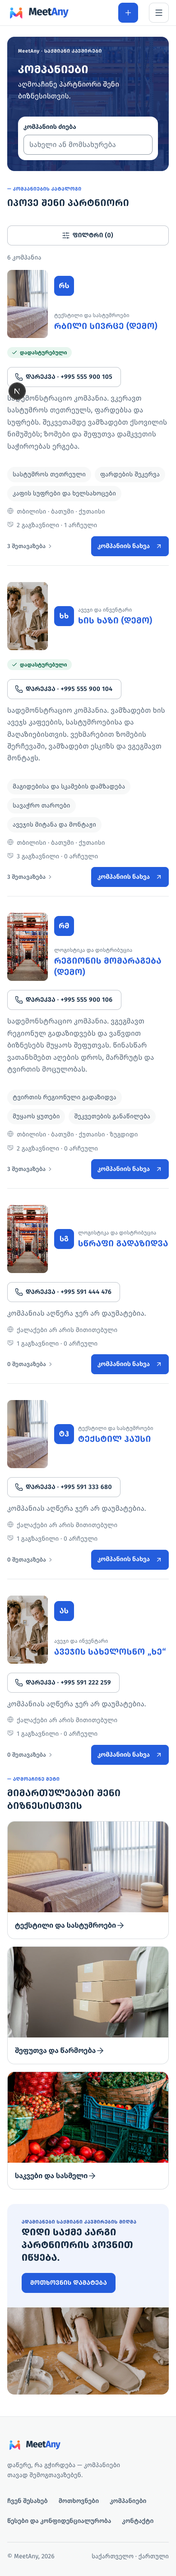
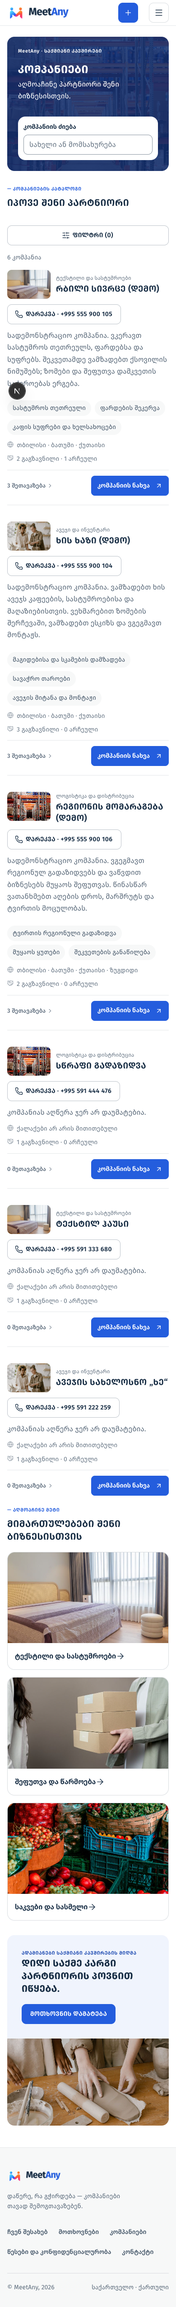
Refine category navigation, company cards and request detail hierarchy

diff --git a/web/app/components/market/RequestViewPageContent.tsx b/web/app/components/market/RequestViewPageContent.tsx
@@ -216,43 +216,7 @@ export function RequestViewPageContent() {
     }
   }
 
-  return (
-    <div className="ma-page">
-      <Link className="ma-back" href="/requests/">
-        <Icon name="arrow-left" />
-        მოთხოვნები
-      </Link>
-      <PageBand eyebrow="MeetAny · საქმიანი კავშირები" title={isOwner ? "მიღებული შეთავაზებები" : r.title} description={isOwner ? r.title : categories[r.category]} />
-      <div className="ma-cluster">
-        {isOwner ? <span className="ma-badge ma-badge--info">შენი მოთხოვნა</span> : null}
-        <span className="ma-small ma-muted">
-          {cities[r.city]} · {offerCount} შეთავაზება
-          {closed ? ` · ${state === "closed" ? "დახურული" : state === "chosen" ? "მომწოდებელი არჩეულია" : "ვადაგასული"}` : ""}
-        </span>
-      </div>
-      <section className="ma-panel ma-stack" aria-label="მოთხოვნის აღწერა">
-        <p className="ma-prose">{r.body}</p>
-        <dl className="ma-kv">
-          {r.quantity != null ? <div><dt>რაოდენობა</dt><dd>{r.quantity} {units[r.unit] || r.unit}</dd></div> : null}
-          {r.neededBy ? <div><dt>საჭიროა თარიღამდე</dt><dd>{r.neededBy}</dd></div> : null}
-          <div><dt>ვადა</dt><dd>{state === "open" ? `დარჩენილია ${store?.daysLeft(r)} დღე` : store?.stateLabels[state]}</dd></div>
-        </dl>
-        {r.photo ? <figure className="ma-photo"><a href={r.photo} target="_blank" rel="noopener noreferrer"><img src={r.photo} alt="მოთხოვნის ფოტო"/></a></figure> : null}
-      </section>
-      <div className="ma-share">
-        <button className="ma-btn ma-btn--secondary" onClick={async () => {try {await navigator.clipboard.writeText(shareUrl); toast("ბმული დაკოპირდა.");} catch {setActionError("ბმული ვერ დაკოპირდა.");}}}>ბმულის კოპირება</button>
-        <a className="ma-btn ma-btn--secondary" href={`https://wa.me/?text=${encodeURIComponent(r.title + "\n" + shareUrl)}`} target="_blank" rel="noopener noreferrer">WhatsApp</a>
-        <a className="ma-btn ma-btn--secondary" href={`https://www.facebook.com/sharer/sharer.php?u=${encodeURIComponent(shareUrl)}`} target="_blank" rel="noopener noreferrer">Facebook</a>
-      </div>
-      {actionError ? <p role="alert" className="ma-field__error">{actionError}</p> : null}
-      {owner ? (
-        <div className="ma-cluster">
-          <span className="ma-small ma-muted">გამომგზავნი: {owner.company || owner.name}</span>
-          {ownerPhone ? <CallButton phone={ownerPhone} variant="secondary" /> : null}
-        </div>
-      ) : null}
-
-      {isOwner || me?.role === "admin" ? (
+  const responsePanel = (isOwner || me?.role === "admin" ? (
         <>
           <p className="ma-note">
             <Icon name="lock" />
@@ -318,8 +282,8 @@ export function RequestViewPageContent() {
         </section>
       ) : (
         <section className="ma-panel">
-          <h2 className="ma-h3">შეთავაზების გასაგზავნად შედი როგორც კომპანია</h2>
-          <p className="ma-note">შეთავაზებებს მხოლოდ მოთხოვნის ავტორი ნახავს — სხვები მხოლოდ რაოდენობას.</p>
+          <h2 className="ma-h3">გაქვს შეთავაზება?</h2>
+          <p className="ma-note">შედი კომპანიის ანგარიშით და გაუგზავნე პირობები ავტორს. შეთავაზების ტექსტს მხოლოდ ის ნახავს.</p>
           <div className="ma-panel__actions">
             <Link className="ma-btn ma-btn--primary" href="/account/">
               შესვლა
@@ -329,7 +293,54 @@ export function RequestViewPageContent() {
             </Link>
           </div>
         </section>
-      )}
+      ));
+
+  return (
+    <div className="ma-page request-detail">
+      <Link className="ma-back" href="/requests/">
+        <Icon name="arrow-left" />
+        მოთხოვნები
+      </Link>
+      <PageBand eyebrow="MeetAny · საქმიანი კავშირები" title={isOwner ? "მიღებული შეთავაზებები" : r.title} description={isOwner ? r.title : categories[r.category]} />
+      <div className="request-detail-grid">
+        <div className="request-detail-main">
+          <div className="ma-cluster">
+            {isOwner ? <span className="ma-badge ma-badge--info">შენი მოთხოვნა</span> : null}
+            <span className="ma-small ma-muted">
+              {cities[r.city]} · {offerCount} შეთავაზება
+              {closed ? ` · ${state === "closed" ? "დახურული" : state === "chosen" ? "მომწოდებელი არჩეულია" : "ვადაგასული"}` : ""}
+            </span>
+          </div>
+          <section className="request-description" aria-label="მოთხოვნის აღწერა">
+            <h2 className="ma-h3">რა გვჭირდება</h2>
+            <p className="ma-prose">{r.body}</p>
+            <dl className="ma-kv request-detail-facts">
+              {r.quantity != null ? <div><dt>რაოდენობა</dt><dd>{r.quantity} {units[r.unit] || r.unit}</dd></div> : null}
+              {r.neededBy ? <div><dt>საჭიროა თარიღამდე</dt><dd>{r.neededBy}</dd></div> : null}
+              <div><dt>ვადა</dt><dd>{state === "open" ? `დარჩენილია ${store?.daysLeft(r)} დღე` : store?.stateLabels[state]}</dd></div>
+            </dl>
+            {r.photo ? <figure className="ma-photo"><a href={r.photo} target="_blank" rel="noopener noreferrer"><img src={r.photo} alt="მოთხოვნის ფოტო"/></a></figure> : null}
+          </section>
+          <div className="ma-share">
+            <button className="ma-btn ma-btn--secondary" onClick={async () => {try {await navigator.clipboard.writeText(shareUrl); toast("ბმული დაკოპირდა.");} catch {setActionError("ბმული ვერ დაკოპირდა.");}}}>ბმულის კოპირება</button>
+            <a className="ma-btn ma-btn--secondary" href={`https://wa.me/?text=${encodeURIComponent(r.title + "\n" + shareUrl)}`} target="_blank" rel="noopener noreferrer">WhatsApp</a>
+            <a className="ma-btn ma-btn--secondary" href={`https://www.facebook.com/sharer/sharer.php?u=${encodeURIComponent(shareUrl)}`} target="_blank" rel="noopener noreferrer">Facebook</a>
+          </div>
+          {actionError ? <p role="alert" className="ma-field__error">{actionError}</p> : null}
+          {!isOwner && me?.role === "company" ? responsePanel : null}
+        </div>
+        <aside className="request-detail-aside" aria-label="კონტაქტი და შეთავაზება">
+          {owner ? (
+            <section className="request-author">
+              <span className="ma-small ma-muted">მოთხოვნის ავტორი</span>
+              <h2 className="ma-h3">{owner.company || owner.name}</h2>
+              {ownerPhone ? <CallButton phone={ownerPhone} variant="secondary" /> : null}
+            </section>
+          ) : null}
+          {!isOwner && me?.role !== "admin" && me?.role !== "company" ? responsePanel : null}
+        </aside>
+      </div>
+      {isOwner || me?.role === "admin" ? <section className="request-responses">{responsePanel}</section> : null}
 
       {editRequest ? <RequestFormSheet key={r.id} open existing={r} onClose={() => setEditRequest(false)} /> : null}
       <ChooseOfferSheet

diff --git a/web/app/styles/marketplace.css b/web/app/styles/marketplace.css
@@ -92,9 +92,15 @@
 .ma-proto .ma-rcard--row,.ma-proto .r2-company-row{border:1px solid var(--border);border-radius:var(--radius-lg);box-shadow:var(--shadow-1);padding:var(--space-6)}
 .ma-proto .ma-rcard--row .ma-rcard__title{font-size:var(--fs-title);line-height:var(--lh-title)}
 .ma-proto .ma-proto-rowend{border-left:0}
-.ma-proto-filter{background:var(--bg-subtle);margin-bottom:var(--space-2);font-size:var(--fs-sm);line-height:var(--lh-sm);gap:var(--space-1);padding-inline:var(--space-1)}
-.ma-proto-filter>span:nth-last-child(2){flex:1;white-space:nowrap}
-.ma-proto-filter .r2-object{flex-basis:var(--space-5);width:var(--space-5);height:var(--space-5)}
+/* Category navigation keeps labels and counts in separate, stable columns. */
+.ma-proto-filter{margin-bottom:var(--space-1);font-size:var(--fs-sm);line-height:var(--lh-sm);gap:var(--space-2);padding-inline:var(--space-2)}
+.ma-proto-filter .facet-label{flex:1;white-space:nowrap}
+.ma-proto-filter .facet-count{min-width:var(--space-6);text-align:center;font-size:var(--fs-xs);color:var(--text-3);border-radius:var(--radius-pill);background:var(--bg-subtle)}
+.ma-proto-filter .r2-object{flex-basis:var(--space-5);width:var(--space-5);height:var(--space-5);background:transparent;color:var(--text-3)}
+.ma-proto-filter[aria-pressed=true]{box-shadow:inset var(--space-1) 0 0 var(--action)}
+.ma-proto-filter[aria-pressed=true] :is(.r2-object,.facet-count){color:var(--action)}
+.ma-proto-filter[aria-pressed=true]:hover{background:var(--selected-bg)}
+.r2-object{flex-basis:var(--space-5);width:var(--space-5);height:var(--space-5)}
 .ma-proto-filter[aria-pressed=true]{box-shadow:inset 0 0 0 1px var(--action)}
 .r2-object{position:relative;display:block;flex:0 0 var(--space-10);width:var(--space-10);height:var(--space-10);overflow:hidden}
 .r2-object img{position:absolute;width:400%;height:200%;max-width:none}
@@ -163,20 +169,53 @@
 
 @media(min-width:1024px){.ma-proto .ma-proto-sidebar{padding:var(--space-4)}.ma-proto-sidebar :is([data-clear],[data-company-clear]){padding-inline:var(--space-2)}}
 
-/* Companies catalog card (owner decision 2026-09-22): the v1 photo-listing layout
-   (.company-listing etc., from home.css — loaded on this page for exactly these classes)
-   plus P2 additions (verified badge, offer chips). Two overrides on top of home.css: the
-   action button reads the theme's main blue instead of home.css's dark listing-action fill,
-   and the offers link grows to a full 44px tap target. */
-.ma-proto .listing-media{min-height:150px}
+/* Catalog: image and identity share a header; details use the whole row. */
+.ma-proto .company-listing{grid-template-columns:calc(var(--space-20) * 2) minmax(0,1fr);gap:var(--space-3) var(--space-5)}
+.ma-proto .listing-media{align-self:start;min-height:0;aspect-ratio:3 / 2;grid-area:1 / 1}
+.ma-proto .listing-content{display:contents}
+.ma-proto .listing-summary{grid-area:1 / 2;display:grid;align-content:center;gap:var(--space-3);min-width:0}
+.ma-proto .listing-heading{flex-wrap:wrap;gap:var(--space-3)}
+.ma-proto .listing-heading h3 a{color:var(--text)}
+.ma-proto .listing-heading h3 a:hover{color:var(--action)}
+.ma-proto .listing-badges{display:flex;flex-wrap:wrap;align-items:center;gap:var(--space-2);margin:0}
+.ma-proto :is(.listing-description,.listing-chips,.listing-facts,.listing-footer){grid-column:1 / -1;margin:0}
+.ma-proto .listing-facts{display:flex;flex-wrap:wrap;gap:var(--space-2) var(--space-5)}
+.ma-proto .listing-footer{border-top:1px solid var(--border-subtle);padding-top:var(--space-3)}
 .ma-proto .company-listing .listing-action{background:var(--action)}
 .ma-proto .company-listing .listing-action:hover{background:var(--action-hover,var(--blue-600))}
 .ma-proto .listing-offers{min-height:var(--tap-min)}
-.ma-proto .listing-heading{flex-wrap:wrap}
-.ma-proto .listing-badges{display:flex;align-items:center;gap:var(--space-2);margin:var(--space-2) 0 0}
-.ma-proto .listing-chips{margin:var(--space-2) 0 0}
-/* Mobile catalog uses display:contents for its body, so added blocks span both columns. */
-.ma-proto .listing-badges{flex-wrap:wrap}
+@media(max-width:600px){
+ .ma-proto .company-listing{grid-template-columns:var(--space-24) minmax(0,1fr);gap:var(--space-3)}
+ .ma-proto .listing-summary{display:contents}
+ .ma-proto .listing-heading{grid-area:1 / 2}
+ .ma-proto .listing-heading .ma-avatar{display:none}
+ .ma-proto .listing-badges{grid-column:1 / -1}
+}
+
+/* Request detail: reading column and compact contact aside. */
+.request-detail{display:grid;gap:var(--space-6)}
+.request-detail>.ma-back{justify-self:start;margin:0}
+.ma-proto .request-detail>.r2-band{margin:0;padding:var(--space-6) var(--space-8);min-height:0}
+.request-detail-grid{display:grid;grid-template-columns:minmax(0,1fr);gap:var(--space-8);align-items:start}
+.request-detail-main{display:grid;gap:var(--space-5);min-width:0}
+.request-description{display:grid;gap:var(--space-5)}
+.request-description .ma-prose{max-width:65ch;margin:0}
+.request-detail .request-detail-facts{display:flex;flex-wrap:wrap;gap:var(--space-6);padding-block:var(--space-4);border-block:1px solid var(--border-subtle)}
+.request-detail .request-detail-facts>div{display:grid;gap:var(--space-2);padding:0;border:0;min-width:var(--space-24)}
+.request-detail .request-detail-facts dd{text-align:left}
+.request-detail .ma-photo{margin:0}
+.request-detail .ma-photo img{aspect-ratio:auto;max-height:calc(var(--space-24) * 4);object-fit:contain;object-position:left center}
+.request-detail-aside{display:grid;gap:var(--space-5);min-width:0;padding:var(--space-6);border:1px solid var(--border);border-radius:var(--radius-lg);background:var(--bg-subtle)}
+.request-author{display:grid;gap:var(--space-3);justify-items:start}
+.request-detail-aside>.ma-panel{padding:var(--space-5) 0 0;border:0;border-top:1px solid var(--border);border-radius:0;box-shadow:none;background:transparent}
+.request-detail-aside .ma-note{margin:0}
+.request-detail-aside .ma-h3{font-size:var(--fs-body);line-height:var(--lh-body)}
+.request-detail .ma-share{padding-top:var(--space-1)}
+.request-detail .ma-share .ma-btn{font-size:var(--fs-xs);padding-inline:var(--space-3)}
+.request-responses{display:grid;gap:var(--space-5);padding-top:var(--space-6);border-top:1px solid var(--border)}
+.request-responses>.ma-panel__actions{display:flex;flex-wrap:wrap}
+@media(min-width:1024px){.request-detail-grid{grid-template-columns:minmax(0,1fr) calc(var(--space-20) * 4 + var(--space-6))}}
 @media(max-width:767px){
- .ma-proto .listing-badges,.ma-proto .listing-chips{grid-column:1 / -1}
+ .ma-proto .request-detail>.r2-band{padding:var(--space-5)}
+ .request-detail-aside{padding:var(--space-5)}
 }

diff --git a/web/app/components/market/FacetList.tsx b/web/app/components/market/FacetList.tsx
@@ -1,5 +1,12 @@
 import { CategoryIcon } from "./CategoryIcon";
 
+const shortLabels: Record<string, string> = {
+  furniture: "ავეჯი და ინვენტარი", construction: "მშენებლობა", textiles: "ტექსტილი",
+  food: "საკვები და სასმელი", packaging: "შეფუთვა და წარმოება", logistics: "ლოგისტიკა",
+  cleaning: "დასუფთავება", technology: "IT და ტექნოლოგიები", marketing: "მარკეტინგი",
+  finance: "ბუღალტერია", legal: "იურიდიული", tourism: "ტურიზმი", other: "სხვა",
+};
+
 export type Facet = { id: string; label: string; count: number };
 
 // The requests/companies sidebar category list: non-zero facets first, zero-count ones behind
@@ -8,29 +15,33 @@ export function FacetList({
   all,
   loading = false,
   allLabel,
+  allCount,
   activeId,
   onSelect,
 }: {
   all: Facet[];
   loading?: boolean;
   allLabel: string;
+  allCount: number;
   activeId: string;
   onSelect: (id: string) => void;
 }) {
-  const entries: Facet[] = [{ id: "", label: allLabel, count: -1 }, ...all];
-  const shown = entries.filter((e) => loading || e.count !== 0 || e.id === activeId);
-  const hidden = entries.filter((e) => !loading && e.count === 0 && e.id !== activeId);
+  const entries: Facet[] = [{ id: "", label: allLabel, count: allCount }, ...all];
+  const shown = entries.filter((e) => loading || !e.id || e.count !== 0 || e.id === activeId);
+  const hidden = entries.filter((e) => !loading && !!e.id && e.count === 0 && e.id !== activeId);
   const button = (f: Facet) => (
     <button
       key={f.id}
       type="button"
       className="ma-proto-filter"
+      title={f.label}
+      aria-label={f.label}
       aria-pressed={activeId === f.id}
       onClick={() => onSelect(f.id)}
     >
-      {f.id ? <CategoryIcon id={f.id} /> : <span className="r2-object r2-object--icon" aria-hidden="true" />}
-      <span>{f.label}</span>
-      <span>{!loading && f.count >= 0 ? f.count : ""}</span>
+      <CategoryIcon id={f.id} />
+      <span className="facet-label">{shortLabels[f.id] || f.label}</span>
+      <span className="facet-count">{!loading && f.count >= 0 ? f.count : ""}</span>
     </button>
   );
   return (

diff --git a/web/app/components/market/CompanyListingCard.tsx b/web/app/components/market/CompanyListingCard.tsx
@@ -19,10 +19,7 @@ export type CompanyListingData = {
   stats: { sent: number; chosen: number };
 };
 
-// The v1 catalog card (site/archive/v1/app.js's card(), home.css's .company-listing) with the
-// P2 additions layered on top: a verified badge and up to 3 offer chips (owner decision
-// 2026-09-22). Companies have no photo of their own yet, so the card uses one representative
-// photo per industry (lib/categories.ts categoryPhoto) instead.
+// Compact industry-photo listing with service chips and a public phone link.
 export function CompanyListingCard({ c }: { c: CompanyListingData }) {
   const href = `/companies/view/?id=${encodeURIComponent(c.id)}`;
   const photo = categoryPhoto[c.industry] || categoryPhoto.other;
@@ -32,6 +29,7 @@ export function CompanyListingCard({ c }: { c: CompanyListingData }) {
         <img src={`/assets/photos/${photo}`} alt="" width={800} height={533} loading="lazy" decoding="async" />
       </Link>
       <div className="listing-content">
+        <div className="listing-summary">
         <div className="listing-heading">
           <CompanyAvatar name={c.name} />
           <div>
@@ -45,19 +43,12 @@ export function CompanyListingCard({ c }: { c: CompanyListingData }) {
             {cities[c.city] || c.city}
           </span>
         </div>
-        {c.verified ? (
-          <div className="listing-badges">
-            <span className="ma-badge ma-badge--success">
-              <Icon name="check" />
-              დადასტურებული
-            </span>
-          </div>
-        ) : null}
         {c.phone ? (
           <div className="listing-badges">
             <CallButton phone={c.phone} variant="secondary" />
           </div>
         ) : null}
+        </div>
         <p className="listing-description">{c.about || "კომპანიას აღწერა ჯერ არ დაუმატებია."}</p>
         {c.offers.length ? (
           <div className="listing-chips">

diff --git a/web/app/components/market/RequestsPageContent.tsx b/web/app/components/market/RequestsPageContent.tsx
@@ -153,7 +153,7 @@ export function RequestsPageContent({ autoOpenNew = false }: { autoOpenNew?: boo
     <div className="ma-proto-filters">
       <div>
         <h2 className="ma-title">კატეგორია</h2>
-        <FacetList all={categoryFacets} loading={!ready} allLabel={`ყველა კატეგორია${ready ? ` (${allCount})` : ""}`} activeId={category} onSelect={setCategory} />
+        <FacetList all={categoryFacets} loading={!ready} allLabel="ყველა კატეგორია" allCount={allCount} activeId={category} onSelect={setCategory} />
       </div>
       <div className="ma-field">
         <label className="ma-field__label" htmlFor="city-desktop">

diff --git a/web/app/components/market/CompaniesPageContent.tsx b/web/app/components/market/CompaniesPageContent.tsx
@@ -117,7 +117,7 @@ export function CompaniesPageContent() {
     <div className="ma-proto-filters">
       <div>
         <h2 className="ma-title">დარგი</h2>
-        <FacetList all={industryFacets} loading={!ready} allLabel={`ყველა დარგი${ready ? ` (${allCount})` : ""}`} activeId={industry} onSelect={setIndustry} />
+        <FacetList all={industryFacets} loading={!ready} allLabel="ყველა დარგი" allCount={allCount} activeId={industry} onSelect={setIndustry} />
       </div>
       <div className="ma-field">
         <label className="ma-field__label" htmlFor="company-city-desktop">

diff --git a/DESIGN-SYSTEM.md b/DESIGN-SYSTEM.md
@@ -11,10 +11,12 @@ Tailwind/shadcn არ გამოიყენება. ახალი ფე
 
 `SiteShell` ყველა marketplace გვერდს ათავსებს ერთ `ma-container`-ში, header/footer-ის კიდეებთან გასწორებით. desktop ფილტრის სიგანეა 280px; მობილურზე ფილტრი იხსნება native dialog-ში. აქტიური ფილტრები ინახება URL-ში და მუშაობს browser back/forward.
 
-მოთხოვნები: მუქი ფოტობენდი, ძიება, მარცხენა ფილტრები, შედეგების რიგში დალაგება და ფართო ბარათები. კატეგორიები Lucide-ის `/icons.svg` sprite-დან; ყველა არანულოვანი კატეგორია ჩანს ერთხაზიანი ლეიბლით. ჩატვირთვისას რაოდენობები არ იბეჭდება.
+მოთხოვნები: მუქი ფოტობენდი, ძიება, მარცხენა ფილტრები, შედეგების რიგში დალაგება და ფართო ბარათები. კატეგორიები Lucide-ის `/icons.svg` sprite-დან; ყველა არანულოვანი კატეგორია ჩანს მოკლე ერთხაზიანი ლეიბლით, ცალკე რაოდენობით და აქტიური რიგის მარცხენა აქცენტით. სრული სახელი ხელმისაწვდომია `aria-label`/`title`-ში. ჩატვირთვისას რაოდენობები არ იბეჭდება.
 
-კომპანიები: დარგის ფოტო `categoryPhoto`-დან, დადასტურების ბეიჯი, მომსახურების ჩიპები და ძირითადი ლურჯი ღილაკი. პროდუქტები უბრალო სიაა. ტელეფონის ბმული არის `tel:` და მინიმუმ 44px სამიზნე აქვს.
+კომპანიები: კომპაქტური ჰორიზონტალური ფოტო (3:2) `categoryPhoto`-დან, მომსახურების ჩიპები და ძირითადი ლურჯი ღილაკი. კატალოგის ბარათზე დადასტურების ბეიჯი არ ჩანს (მფლობელის განახლებული გადაწყვეტილება). ფოტო და კომპანიის ვინაობა ზედა რიგს იკავებს, აღწერა/მომსახურებები/მოქმედებები მთელ სიგანეს იყენებს. პროდუქტები უბრალო სიაა. ტელეფონის ბმული არის `tel:` და მინიმუმ 44px სამიზნე აქვს.
 
 მთავარი ინარჩუნებს არსებულ hero-ს და 3D კატეგორიებს. `HomeLive`-ის featured კომპანიები და რაოდენობები რეალური ბაზიდან იტვირთება. ძველ hero-სთან შედარება: 1440px-ზე ორივე 435.09px სიმაღლე; ფერი/ფოტოს გამჭვირვალობა იდენტურია.
 
 დამტკიცებული სპეციფიკაციები: `archive/design/P2-SPEC-GE.md`, `P2-OWNER-GE.md`. მიმდინარე შემოწმების სურათები: `web/qa/shots/` (1280/390).
+
+მოთხოვნის დეტალი: ტექსტი, რაოდენობა და ვადა მარცხნივ; ავტორი, ტელეფონი და შესვლა მარჯვნივ კომპაქტურ პანელში; შესული კომპანიის შეთავაზება ძირითად სვეტშია, ტექსტისთვის საკმარისი სიგანით. მობილურზე ერთი სვეტია. მფლობელის შეთავაზებები ცალკე ფართო სექციაში რჩება.

diff --git a/web/qa/README.md b/web/qa/README.md
@@ -12,3 +12,9 @@
 სურათები: `shots/`. `browser.mjs` და `accounts.mjs` იყენებს Playwright Chromium-ს; ჩვეულებრივი Chrome გაიხსნა infinity11 (`Profile 8 — INFINITY`) პროფილში. ძველი დაუთრექავი შემოწმების მასალები შენარჩუნებულია `archive/prototype-local` და `archive/qa-local`-ში.
 
 ტესტებმა შეცვალა მხოლოდ auth-probe branch-ის საკუთარი დროებითი QA მოთხოვნები; საბოლოოდ ისინი წაიშალა. Production deploy არ შესრულებულა. პაროლის აღდგენის/OTP ფორმები კოდში გადატანილია; რეალური კოდის წერილი არ გაგზავნილა. რეალური რეგისტრაცია და ადმინისტრატორის ბლოკირების/დადასტურების ცვლილებები UI-ით არ გამეორებულა; მათი სერვერული წესები DB ტესტებით მოწმდება.
+
+## ვიზუალური შესწორება მფლობელის სურათების შემდეგ
+
+კატეგორიების სია, კომპანიის ბარათი და მოთხოვნის დეტალი გადაიწყო. `shots/refined-*` აჩვენებს 1440/1024/390 ხედებს და შესული კლიენტის/კომპანიის მოთხოვნის ხედებს. შემოწმდა სურათები, ქართული ტექსტი და ჰორიზონტალური საზღვრები; სრულმა browser smoke-მა ხელახლა გაიარა 19 შემოწმება, 0 console error-ით. Build წარმატებულია, lint: 0 შეცდომა / 17 არსებული გაფრთხილება. ამ ვიზუალური ცვლილებისთვის DB workflow ტესტები არ გამეორებულა; შესული ანგარიშების დათვალიერება მხოლოდ წაკითხვას მოიცავდა.
+
+მოთხოვნისა და კომპანიის კატალოგების შემდგომი განსხვავების კვლევა: [DESIGN-DIRECTION.md](DESIGN-DIRECTION.md). იქ შეთავაზებული განსხვავებული შესავალი ბლოკები ჯერ არ განხორციელებულა.

diff --git a/web/qa/DESIGN-DIRECTION.md b/web/qa/DESIGN-DIRECTION.md
@@ -1,0 +1,25 @@
+# MeetAny: requests and company discovery
+
+Research reviewed 2026-09-22. This is a proposed direction, not a claim that users have tested or approved a new design.
+
+The two pages serve different decisions. Requests help a supplier decide whether to respond to a specific need; companies help a buyer choose a potential partner. Keep shared navigation, typography, controls and filter behavior, while differentiating hierarchy, content and page introductions.
+
+| Element | Requests | Companies |
+| --- | --- | --- |
+| Primary question | What can I supply or do? | Who can help me? |
+| Introduction | Compact, practical search header | Business directory introduction with service search |
+| Entry hierarchy | Need → quantity/location/deadline → responses | Company → capabilities/service area → contact |
+| Image | Author's actual reference photo, when present | Small supporting image; company identity stays primary |
+| Main action | View requirement, then send terms | View company or call |
+| Filters | Category and destination city | Industry and service area (service-area behavior requires a separate functional change) |
+
+Keep entries in predictable rows for comparison. A different color or a two-column grid by itself does not address the different tasks. Avoid dominant repeated category photos: current images describe an industry, not the individual company. Real company media could improve this later, without implying it already exists.
+
+Sources:
+- [NN/g: Consistency and Standards](https://www.nngroup.com/articles/consistency-and-standards/) — familiar controls and consistent meanings across a product.
+- [NN/g: Cards](https://www.nngroup.com/articles/cards-component/) — predictable lists support scanning and comparison; cards have tradeoffs.
+- [Baymard: Product Listing Information](https://baymard.com/research-articles/product-listing-information) — include the attributes needed to judge relevance without opening each entry. This is ecommerce research, applied here as a general principle, not direct evidence about MeetAny.
+- [Thomasnet: Supplier Discovery](https://sourcing.thomasnet.com/) — search, evaluate capabilities, contact a supplier.
+- [Upwork: Job Search](https://support.upwork.com/hc/en-us/articles/211063078-How-to-search-for-jobs-on-Upwork) — keyword search and filters for finding relevant work. A workflow reference, not a layout to copy.
+
+Implemented during this review: shorter category labels with full accessible names, separate counts, compact company photos, removal of catalog verification badges, full-width company descriptions, and a request detail reading column with a contact aside and company response in the reading column. Distinct catalog introductions remain a proposal for the next design iteration.
